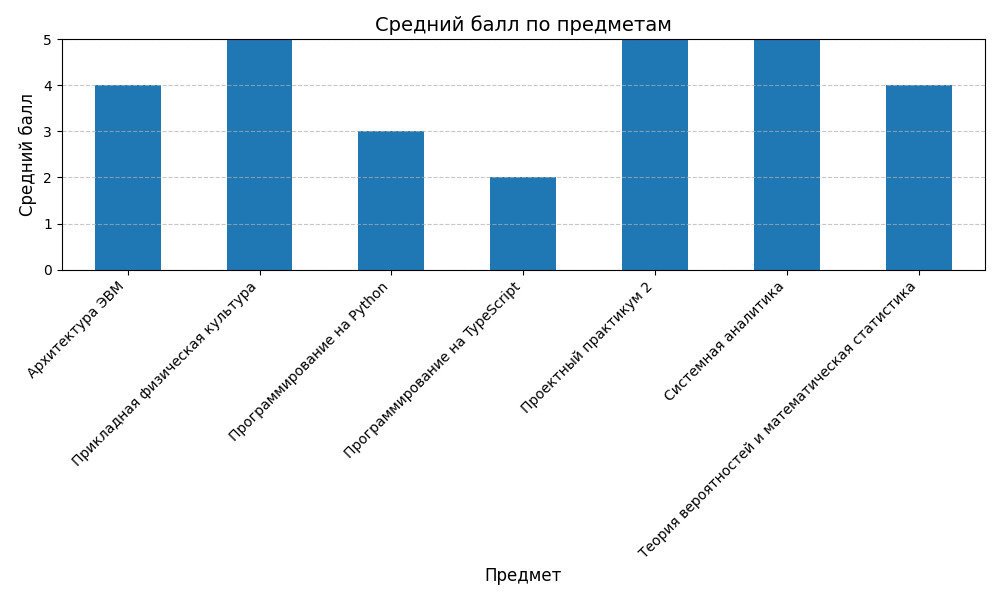
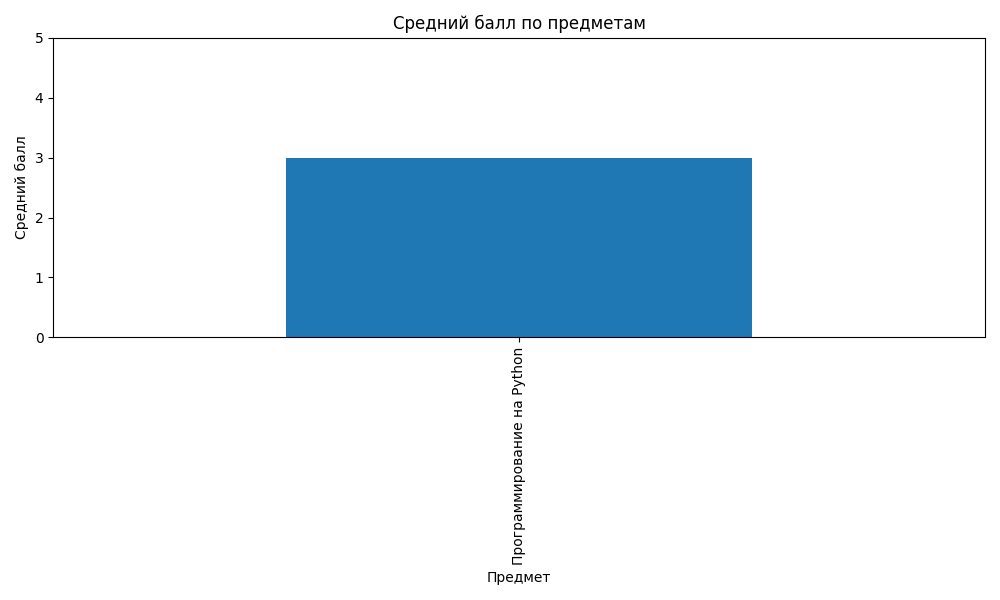
Ready for deploy

diff --git a/analyzer/templates/analyzer/dashboard.html b/analyzer/templates/analyzer/dashboard.html
@@ -1,12 +1,35 @@
 {% extends 'analyzer/base.html' %}
 
 {% block content %}
+
 <h3>Добавить оценку</h3>
 <form method="post" class="mb-4">
     {% csrf_token %}
     {{ form.as_p }}
-    <button class="btn btn-primary">Сохранить</button>
+    <button class="btn btn-success">Добавить</button>
 </form>
+
+<h3>Список оценок</h3>
+<table class="table table-striped">
+    <tr>
+        <th>Предмет</th>
+        <th>Оценка</th>
+        <th>Дата</th>
+        <th></th>
+    </tr>
+    {% for grade in grades %}
+    <tr>
+        <td>{{ grade.subject.name }}</td>
+        <td>{{ grade.value }}</td>
+        <td>{{ grade.date }}</td>
+        <td>
+            <a href="{% url 'delete_grade' grade.id %}" class="btn btn-danger btn-sm">
+                Удалить
+            </a>
+        </td>
+    </tr>
+    {% endfor %}
+</table>
 
 <h3>Аналитика</h3>
 
@@ -32,4 +55,5 @@
 {% else %}
 <p>Нет данных для аналитики.</p>
 {% endif %}
+
 {% endblock %}

diff --git a/analyzer/templates/analyzer/subject_list.html b/analyzer/templates/analyzer/subject_list.html
@@ -1,10 +1,25 @@
 {% extends 'analyzer/base.html' %}
 
 {% block content %}
+
+<h3>Добавить предмет</h3>
+<form method="post" class="mb-4">
+    {% csrf_token %}
+    {{ form.as_p }}
+    <button class="btn btn-success">Добавить</button>
+</form>
+
 <h3>Список предметов</h3>
-<ul>
+
+<ul class="list-group">
     {% for subject in subjects %}
-        <li>{{ subject.name }} — {{ subject.weekly_hours }} ч/нед</li>
+    <li class="list-group-item d-flex justify-content-between align-items-center">
+        {{ subject.name }} — {{ subject.weekly_hours }} ч/нед
+        <a href="{% url 'delete_subject' subject.id %}" class="btn btn-danger btn-sm">
+            Удалить
+        </a>
+    </li>
     {% endfor %}
 </ul>
+
 {% endblock %}

diff --git a/analyzer/templates/analyzer/base.html b/analyzer/templates/analyzer/base.html
@@ -5,7 +5,15 @@
     <link href="https://cdn.jsdelivr.net/npm/bootstrap@5.3.0/dist/css/bootstrap.min.css" rel="stylesheet">
 </head>
 <body class="container mt-4">
-    <h1 class="mb-4">StudyLoad Analyzer</h1>
-    {% block content %}{% endblock %}
+
+<h1 class="mb-3">StudyLoad Analyzer</h1>
+
+<div class="mb-4">
+    <a href="{% url 'dashboard' %}" class="btn btn-outline-primary">Главная</a>
+    <a href="{% url 'subject_list' %}" class="btn btn-outline-secondary">Предметы</a>
+</div>
+
+{% block content %}{% endblock %}
+
 </body>
 </html>

diff --git a/analyzer/views.py b/analyzer/views.py
@@ -1,15 +1,22 @@
-from django.shortcuts import render
+from django.shortcuts import render, redirect
+from django.conf import settings
 from .models import Subject, Grade
-from .forms import GradeForm
+from .forms import GradeForm, SubjectForm
 import pandas as pd
 import matplotlib.pyplot as plt
 import os
-from django.conf import settings
 
 
 def dashboard(request):
     grades = Grade.objects.select_related('subject')
 
+    # ---------- форма добавления оценки ----------
+    form = GradeForm(request.POST or None)
+    if form.is_valid():
+        form.save()
+        return redirect('dashboard')
+
+    # ---------- подготовка данных для анализа ----------
     data = [{
         'subject': g.subject.name,
         'grade': g.value,
@@ -17,7 +24,6 @@ def dashboard(request):
     } for g in grades]
 
     df = pd.DataFrame(data)
-
     stats = {}
     chart_url = None
 
@@ -29,34 +35,51 @@ def dashboard(request):
 
         stats = grouped.to_dict('index')
 
-        # ===== ГЕНЕРАЦИЯ ГРАФИКА =====
-        plt.figure(figsize=(10, 6))  # <-- делаем график выше и шире
-
+        # ---------- построение графика ----------
+        plt.figure(figsize=(10, 6))
         grouped['average_grade'].plot(kind='bar')
-
-        plt.title('Средний балл по предметам', fontsize=14)
-        plt.ylabel('Средний балл', fontsize=12)
-        plt.xlabel('Предмет', fontsize=12)
-
-        plt.xticks(rotation=45, ha='right')  # <-- наклон подписей
-        plt.ylim(0, 5)  # <-- логичный диапазон оценок
-
-        plt.grid(axis='y', linestyle='--', alpha=0.7)  # аккуратная сетка
+        plt.title('Средний балл по предметам')
+        plt.ylabel('Средний балл')
+        plt.xlabel('Предмет')
+        plt.ylim(0, 5)
         plt.tight_layout()
 
+        charts_dir = os.path.join(settings.MEDIA_ROOT, 'charts')
+        os.makedirs(charts_dir, exist_ok=True)
 
-        chart_path = os.path.join(settings.MEDIA_ROOT, 'charts', 'avg_grades.png')
+        chart_path = os.path.join(charts_dir, 'avg_grades.png')
         plt.savefig(chart_path)
         plt.close()
 
         chart_url = settings.MEDIA_URL + 'charts/avg_grades.png'
 
-    form = GradeForm(request.POST or None)
-    if form.is_valid():
-        form.save()
-
     return render(request, 'analyzer/dashboard.html', {
-        'stats': stats,
         'form': form,
+        'grades': grades,
+        'stats': stats,
         'chart_url': chart_url
     })
+
+
+def delete_grade(request, grade_id):
+    Grade.objects.get(id=grade_id).delete()
+    return redirect('dashboard')
+
+
+def subject_list(request):
+    subjects = Subject.objects.all()
+
+    form = SubjectForm(request.POST or None)
+    if form.is_valid():
+        form.save()
+        return redirect('subject_list')
+
+    return render(request, 'analyzer/subject_list.html', {
+        'subjects': subjects,
+        'form': form
+    })
+
+
+def delete_subject(request, subject_id):
+    Subject.objects.get(id=subject_id).delete()
+    return redirect('subject_list')

diff --git a/analyzer/urls.py b/analyzer/urls.py
@@ -1,6 +1,14 @@
 from django.urls import path
-from .views import dashboard
+from .views import (
+    dashboard,
+    subject_list,
+    delete_subject,
+    delete_grade
+)
 
 urlpatterns = [
     path('', dashboard, name='dashboard'),
+    path('subjects/', subject_list, name='subject_list'),
+    path('subjects/delete/<int:subject_id>/', delete_subject, name='delete_subject'),
+    path('grades/delete/<int:grade_id>/', delete_grade, name='delete_grade'),
 ]

diff --git a/analyzer/forms.py b/analyzer/forms.py
@@ -1,7 +1,14 @@
 from django import forms
-from .models import Grade
+from .models import Grade, Subject
+
 
 class GradeForm(forms.ModelForm):
     class Meta:
         model = Grade
         fields = ['subject', 'value', 'date']
+
+
+class SubjectForm(forms.ModelForm):
+    class Meta:
+        model = Subject
+        fields = ['name', 'weekly_hours', 'semester']
